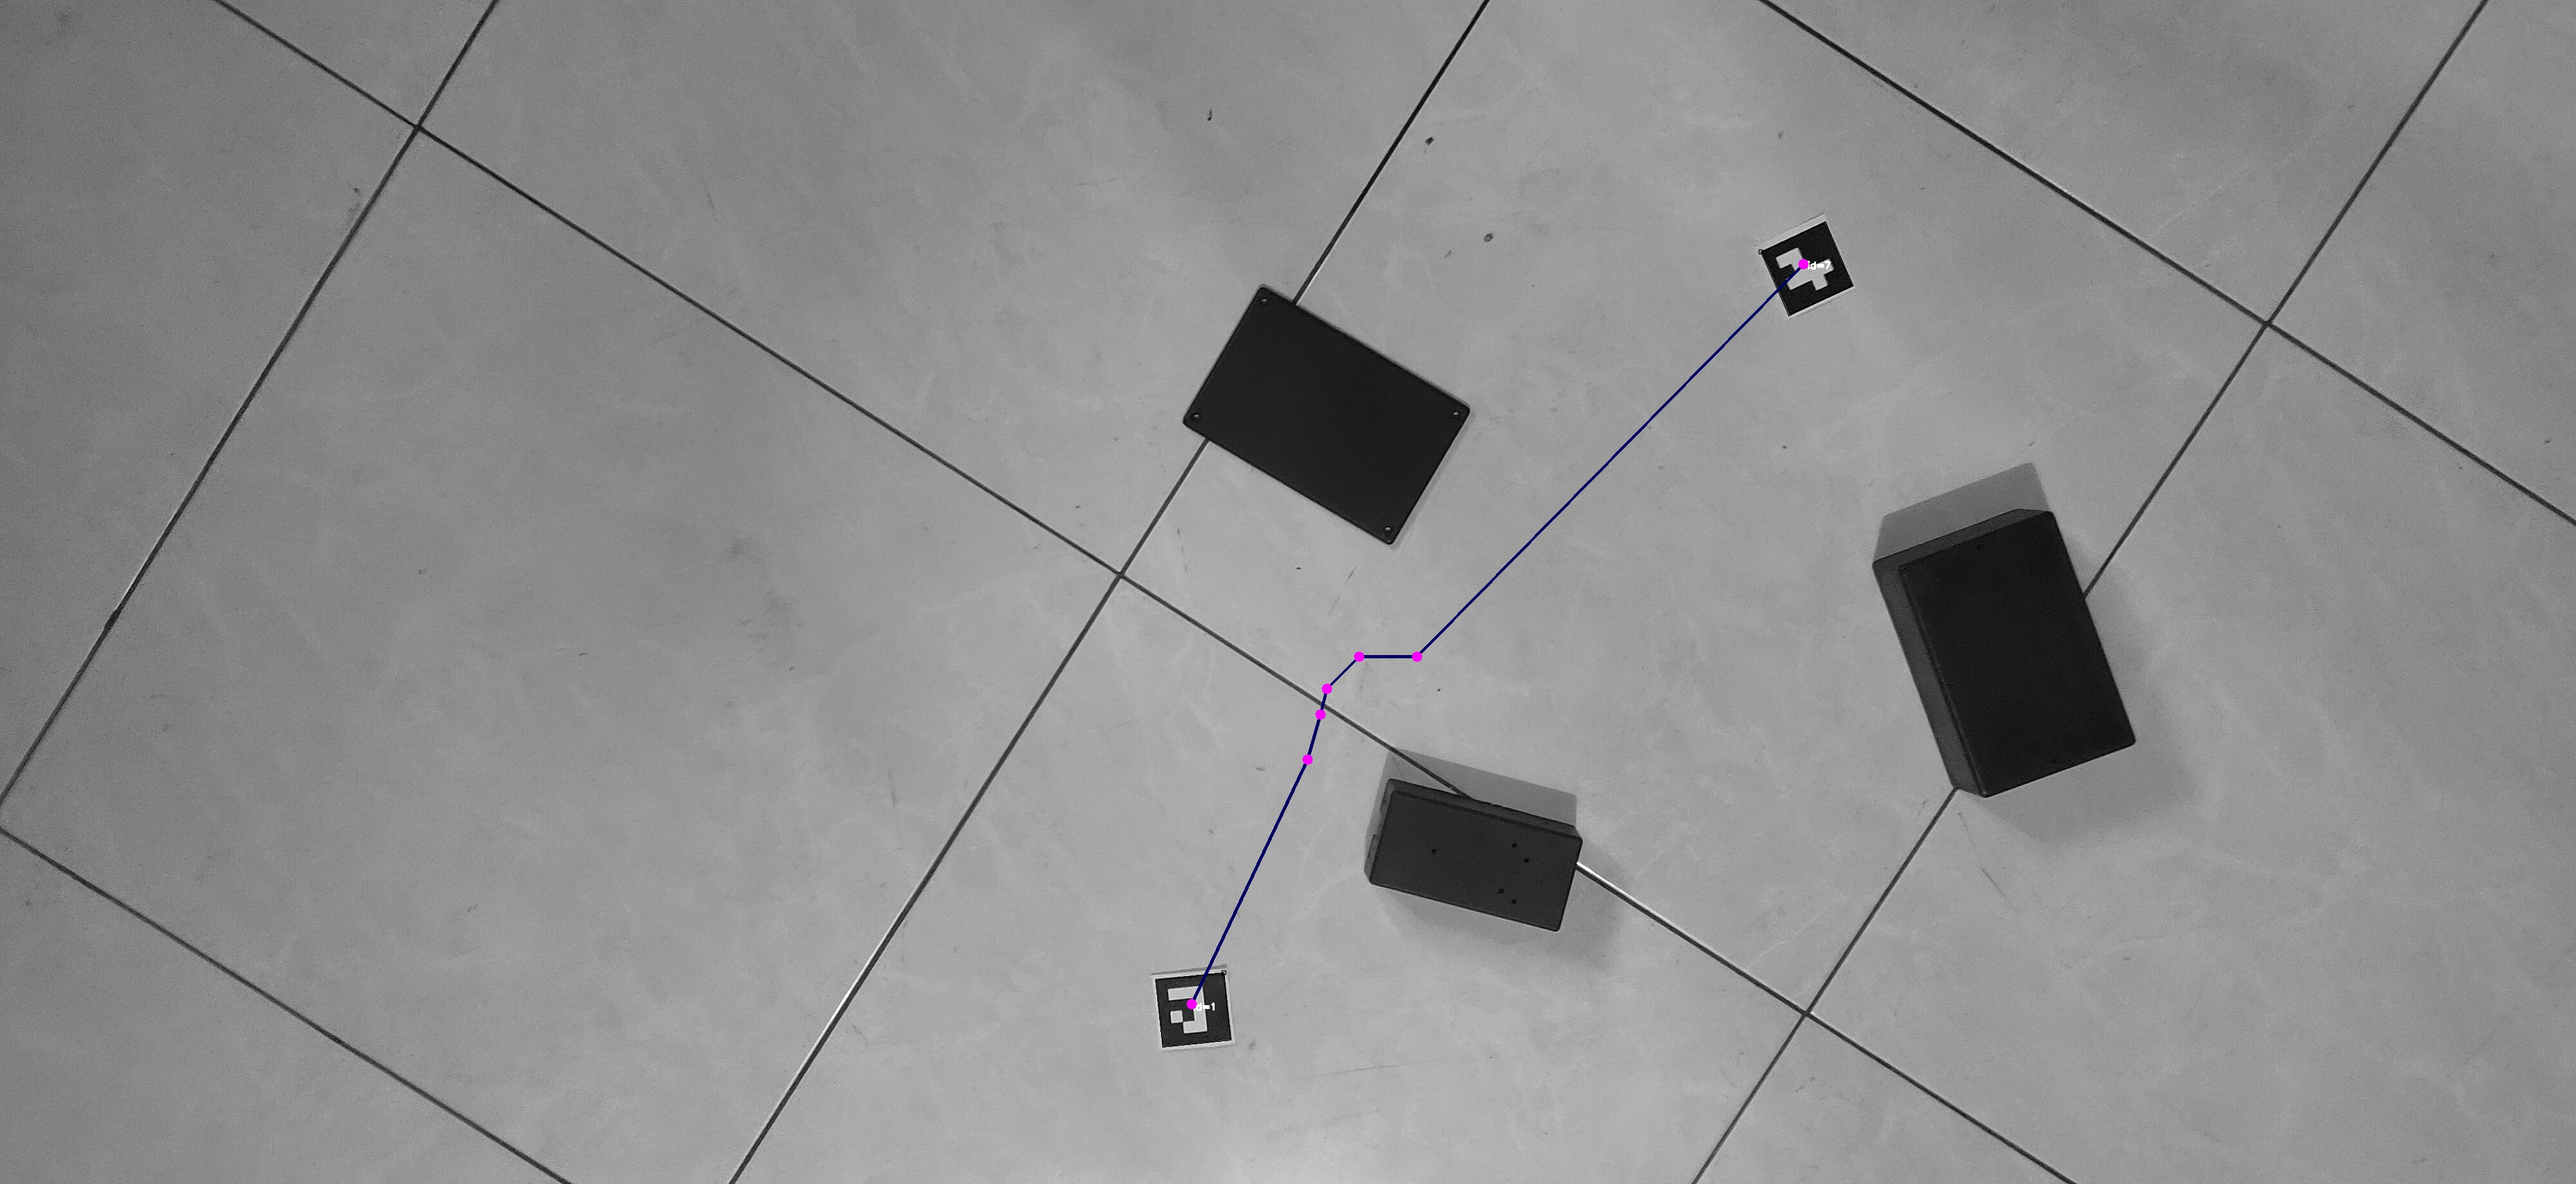
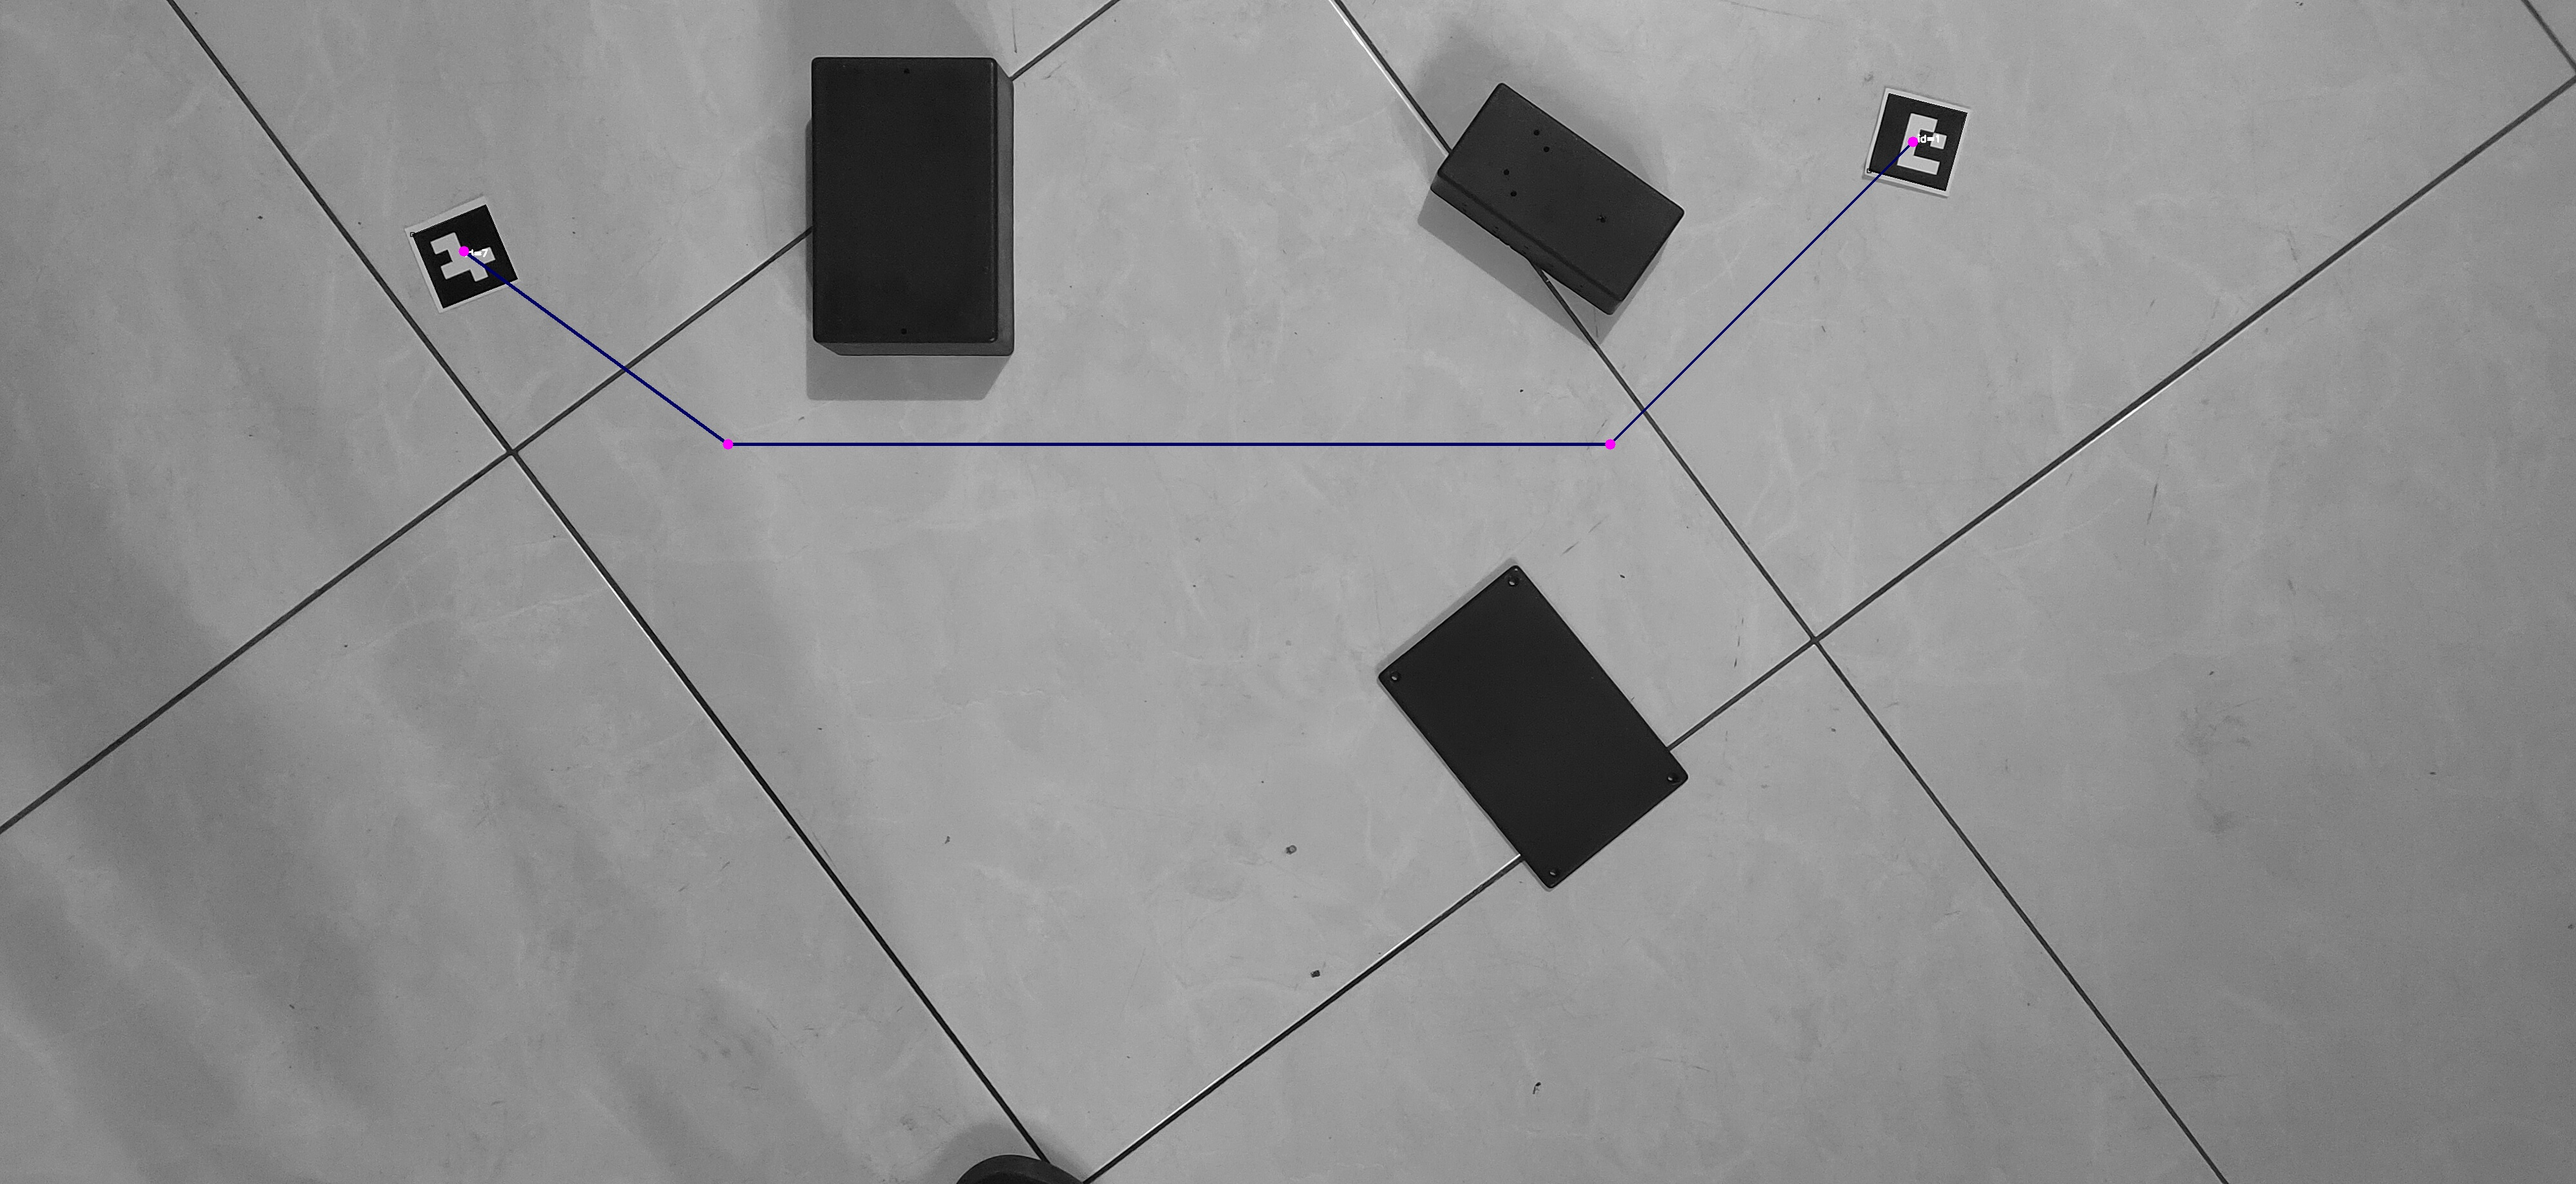
adding file for calibration

diff --git a/GetCalibration.py b/GetCalibration.py
@@ -1,0 +1,109 @@
+import numpy as np
+import cv2 
+import glob
+import os
+import matplotlib.pyplot as plt
+
+def calibrate(showPics=True):
+    root = os.getcwd()
+    calibrationDir = os.path.join(root, 'demoImage', 'calibration')
+    imagePathList = glob.glob(os.path.join(calibrationDir, '*.jpg'))
+
+    # Ukuran pola papan catur (jumlah sudut dalam baris dan kolom)
+    nRows = 9  # jumlah titik di baris
+    nCols =  6  # jumlah titik di kolom
+    termCriteria = (cv2.TERM_CRITERIA_EPS + cv2.TERM_CRITERIA_MAX_ITER, 30, 0.001)
+
+    # Titik dunia 3D
+    worldPtsCur = np.zeros((nRows * nCols, 3), np.float32)
+    worldPtsCur[:, :2] = np.mgrid[0:nCols, 0:nRows].T.reshape(-1, 2)
+
+    worldPtsList = []  # Titik dunia 3D
+    imgPtsList = []    # Titik citra 2D
+    imgSize = None
+
+    for curImagePath in imagePathList:
+        imgBGR = cv2.imread(curImagePath)
+        if imgBGR is None:
+            print(f"Failed to load image: {curImagePath}")
+            continue
+
+        imgGray = cv2.cvtColor(imgBGR, cv2.COLOR_BGR2GRAY)
+        cornerFound, cornerOrg = cv2.findChessboardCorners(imgGray, (nCols, nRows), None)
+
+        if cornerFound:
+            if imgSize is None:
+                imgSize = imgGray.shape[::-1]  # Simpan ukuran pertama
+            worldPtsList.append(worldPtsCur)
+            cornerRefined = cv2.cornerSubPix(imgGray, cornerOrg, (11,11), (-1,-1), termCriteria)
+            imgPtsList.append(cornerRefined)
+            if showPics:
+                cv2.drawChessboardCorners(imgBGR, (nCols, nRows), cornerRefined, cornerFound)
+                cv2.imshow('Chessboard', imgBGR)
+                cv2.waitKey(500)
+        else:
+            print(f"Chessboard not found in: {curImagePath}")
+
+    cv2.destroyAllWindows()
+
+    if len(worldPtsList) == 0:
+        raise ValueError("Tidak ada sudut papan catur yang ditemukan dalam gambar manapun.")
+
+    # Kalibrasi kamera
+    repError, camMatrix, distCoeff, rvecs, tvecs = cv2.calibrateCamera(
+        worldPtsList, imgPtsList, imgSize, None, None
+    )
+
+    print('Camera Matrix:\n', camMatrix)
+    print('Reprojection Error (pixel): {:.4f}'.format(repError))
+
+    # Simpan parameter kalibrasi
+    curFolder = os.path.dirname(os.path.abspath(__file__))
+    paramPath = os.path.join(curFolder, 'calibration.npz')
+    np.savez(paramPath,
+             repError=repError,
+             camMatrix=camMatrix,
+             distCoeff=distCoeff,
+             rvecs=rvecs,
+             tvecs=tvecs)
+    
+    return camMatrix, distCoeff
+
+
+def removeDistortion(camMatrix, distCoeff):
+    root = os.getcwd()
+    imgPath = os.path.join(root, 'demoImage', 'demo2.jpg')
+    img = cv2.imread(imgPath)
+    if img is None:
+        raise FileNotFoundError(f"Gambar tidak ditemukan: {imgPath}")
+
+    height, width = img.shape[:2]
+    camMatrixNew, roi = cv2.getOptimalNewCameraMatrix(camMatrix, distCoeff, (width, height), 1, (width, height))
+    imgUndist = cv2.undistort(img, camMatrix, distCoeff, None, camMatrixNew)
+
+    # Gambar garis untuk menunjukkan distorsi
+    cv2.line(img, (176, 103), (180, 400), (255, 255, 255), 2)
+    cv2.line(imgUndist, (176, 103), (180, 400), (255, 255, 255), 2)
+
+    plt.figure(figsize=(12, 6))
+    plt.subplot(121)
+    plt.title("Original")
+    plt.imshow(cv2.cvtColor(img, cv2.COLOR_BGR2RGB))
+    plt.subplot(122)
+    plt.title("Undistorted")
+    plt.imshow(cv2.cvtColor(imgUndist, cv2.COLOR_BGR2RGB))
+    plt.tight_layout()
+    plt.show()
+
+
+def runCalibration():
+    calibrate(showPics=True)
+
+def runRemoveDistortion():
+    camMatrix, distCoeff = calibrate(showPics=True)
+    removeDistortion(camMatrix, distCoeff)
+
+if __name__ == '__main__':
+    # runCalibration()
+    # Jika ingin langsung menghapus distorsi:
+    runRemoveDistortion()

diff --git a/GetPreprocessing.py b/GetPreprocessing.py
@@ -7,7 +7,6 @@ def Preprocessing(image, pos, scale):
 
     # Merubah Ukuran Gambar
     dilasi = cv2.resize(safe, (safe.shape[1]//scale, safe.shape[0]//scale), interpolation=cv2.INTER_NEAREST)
-    
     # Pengubah posisi ke ukuran baru
     pos = {
         key: (x // scale, y // scale)

diff --git a/Main.py b/Main.py
@@ -2,7 +2,7 @@ from Utils import *
 
 # Baca gambar dalam grayscale
 scale = 10
-image = cv2.imread('Image/2.jpg', 0)
+image = cv2.imread('Image/4.jpg', 0)
 
 # Preprocessing
 pos = Position(image)
